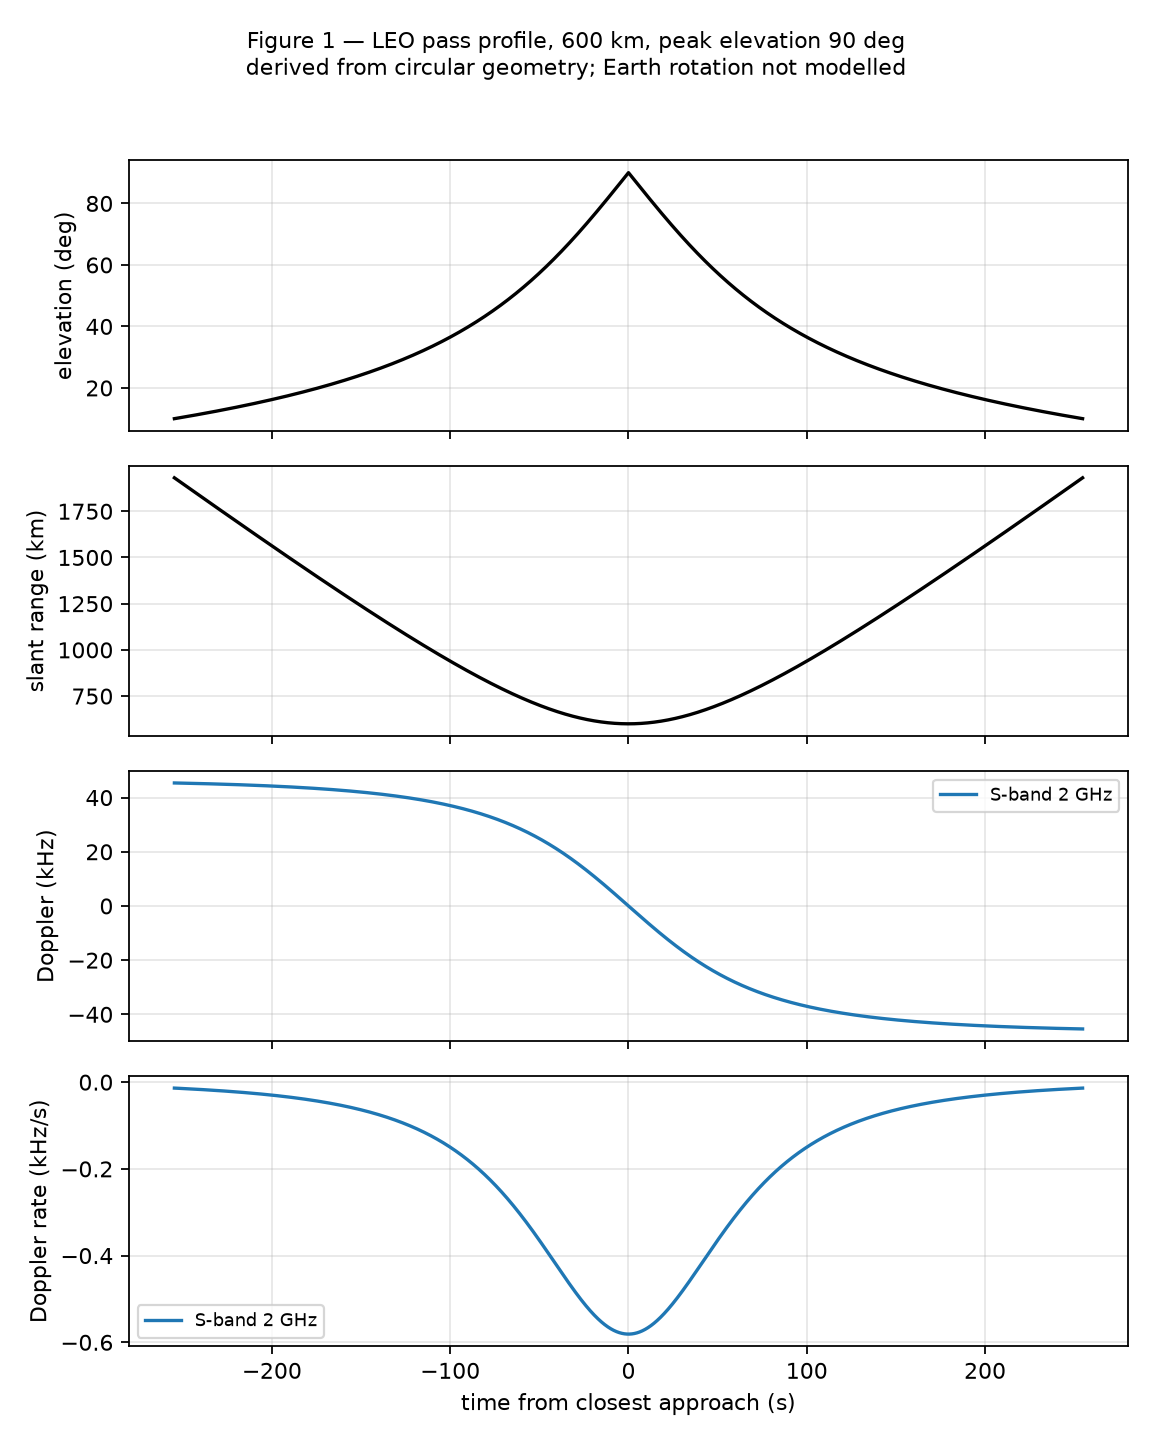
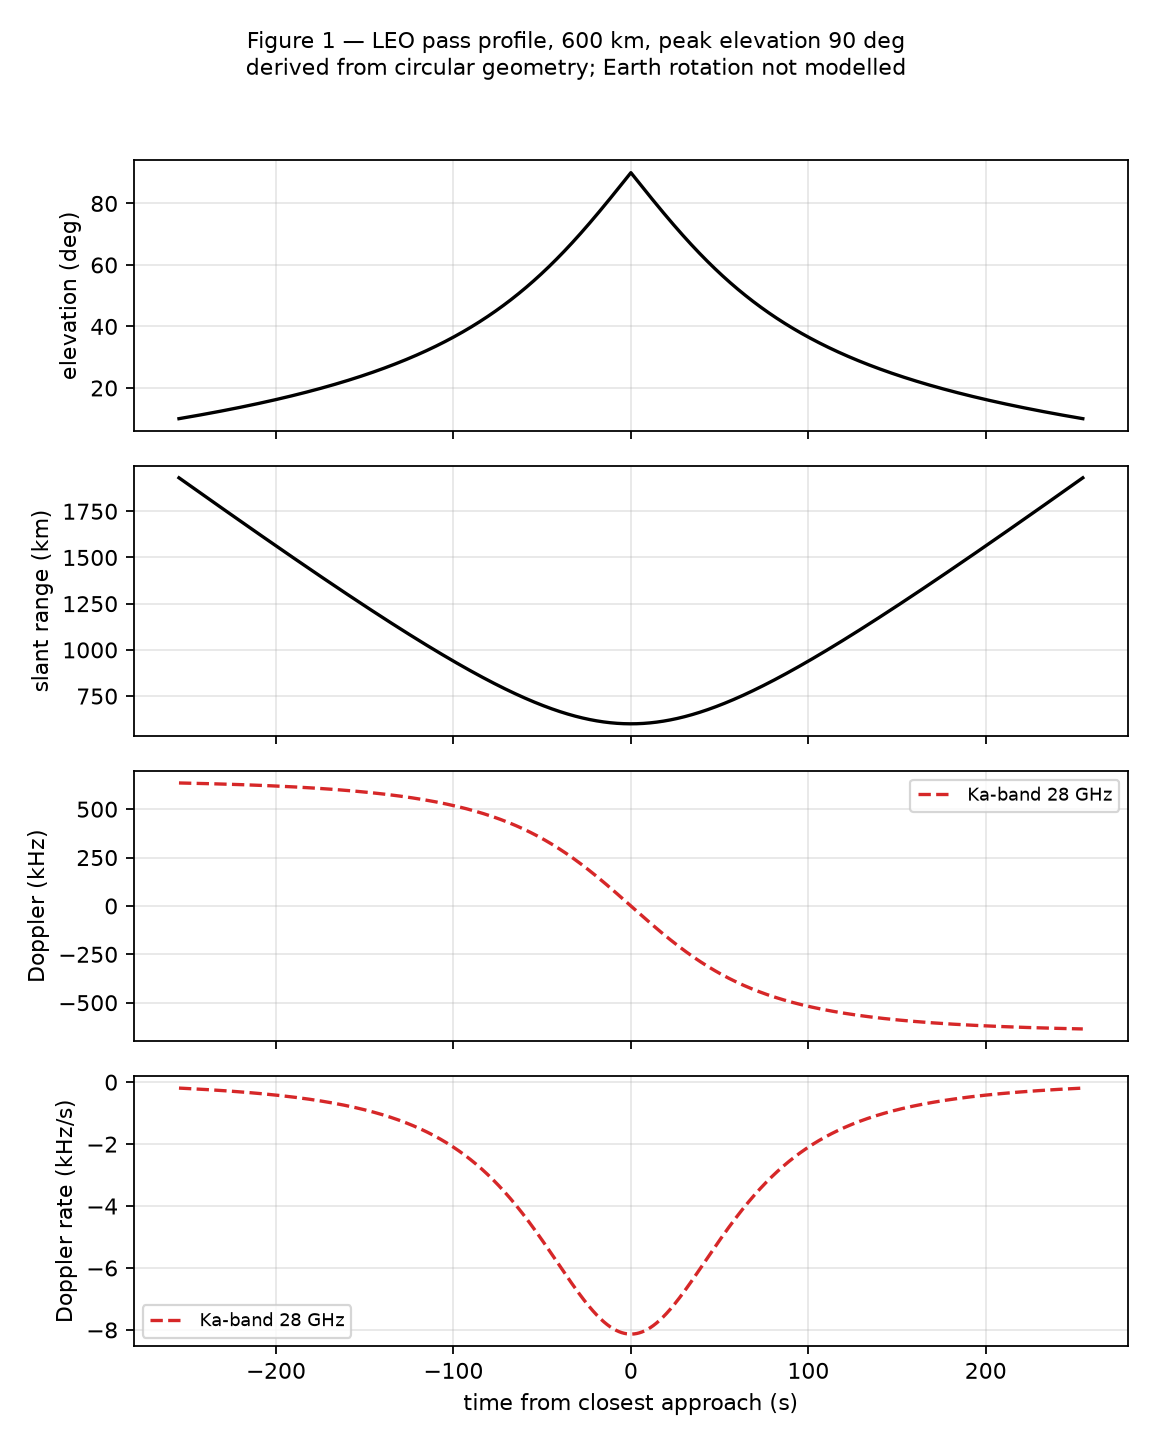
feat(orbit): read real ITU-R P.676 gas attenuation, add ticket queue
Zenith gaseous attenuation was an unread placeholder (Mistakes.md #1). Replaced
with ITU-R P.676-12 Annex 2 values, verified two ways: 0.0342 dB at 2 GHz
(placeholder was 2% high), 0.2354 dB at 28 GHz (placeholder was 27% high).
Dropped the now-false placeholder warning; the provenance flag survives,
renamed to gas_zenith_is_default. Figure 1 regenerated both bands, 44 tests
pass.

Also adds tasks/tickets.md, a flat status table over tasks/todo.md's day-by-day
plan, to track the open, blocked and deferred items as a pull queue.

diff --git a/orbit/channel.py b/orbit/channel.py
@@ -8,17 +8,15 @@ Provenance of each term, because a figure has to be able to say which is which:
 
 * Doppler, Doppler rate, delay      -- derived, from geometry and the speed of light.
 * Free-space path loss              -- derived, Friis.
-* Atmospheric gas absorption        -- cited, ITU-R P.676 zenith values, scaled by
-                                       cosec(elevation). Placeholder magnitudes are
-                                       flagged at runtime until read off the
-                                       recommendation on day 1.
+* Atmospheric gas absorption        -- cited, ITU-R P.676-12 Annex 2 zenith values
+                                       (standard atmosphere, oxygen + water vapour),
+                                       scaled by cosec(elevation).
 * Tropospheric scintillation        -- cited functional form (ITU-R P.618), with the
                                        amplitude left as a parameter.
 """
 
 from __future__ import annotations
 
-import warnings
 from dataclasses import dataclass
 
 import numpy as np
@@ -27,12 +25,19 @@ from .constants import C
 from .geometry import Pass
 
 
-# Zenith one-way gaseous attenuation, dB, clear sky, temperate. These are
-# order-of-magnitude placeholders so that the pipeline runs end to end on day 1.
-# They are NOT read off ITU-R P.676 yet; `channel_profile` warns while they are in
-# use, and `tasks/lessons.md` records that they must be replaced before any figure
-# containing them is published.
-_ZENITH_GAS_DB_PLACEHOLDER = {2.0e9: 0.035, 28.0e9: 0.30}
+# Zenith one-way gaseous attenuation, dB, clear sky, standard atmosphere
+# (P = 1013.25 hPa, T = 288.15 K, water vapour density 7.5 g/m^3 -- ITU-R P.835 mean
+# annual global). ITU-R P.676-12 (08/2019) Annex 2: A = h_o * gamma_o + h_w * gamma_w,
+# gamma_o/gamma_w from Annex 2 Sec 1 (line-by-line, Annex 1 Eq. 1), h_o/h_w from
+# Annex 2 Sec 2.2 Eq. 30 / Eq. 35b. Computed and cross-checked with the `itur`
+# package's `itu676` module and its `gaseous_attenuation_slant_path(mode='approx')`;
+# both agree exactly. Values, per band:
+#   2 GHz:  gamma_o=0.00672 dB/km, gamma_w=0.00020 dB/km, h_o=5.044 km, h_w=1.697 km
+#   28 GHz: gamma_o=0.01870 dB/km, gamma_w=0.08306 dB/km, h_o=4.860 km, h_w=1.740 km
+# P.676-13 (08/2022) replaced this closed-form method with a per-0.5-GHz coefficient
+# table not reproducible from the recommendation text alone; -12's Annex 2 method is
+# used here and cited as such rather than as -13.
+_ZENITH_GAS_DB = {2.0e9: 0.0342, 28.0e9: 0.2354}
 
 
 @dataclass
@@ -50,7 +55,7 @@ class ChannelProfile:
     total_loss_db: np.ndarray
     fc_hz: float
     source: str
-    gas_is_placeholder: bool
+    gas_zenith_is_default: bool  # True unless the caller passed its own zenith_gas_db
 
     @property
     def peak_doppler_hz(self) -> float:
@@ -105,14 +110,14 @@ def gaseous_loss_db(elevation_deg: np.ndarray, fc_hz: float,
     behind cosec(el) breaks and the true path is shorter than it predicts. This lab
     works at 10 degrees and above, so the approximation holds where it is used.
     """
-    is_placeholder = zenith_db is None
-    if is_placeholder:
-        zenith_db = _ZENITH_GAS_DB_PLACEHOLDER.get(fc_hz)
+    is_default = zenith_db is None
+    if is_default:
+        zenith_db = _ZENITH_GAS_DB.get(fc_hz)
         if zenith_db is None:
-            nearest = min(_ZENITH_GAS_DB_PLACEHOLDER, key=lambda f: abs(f - fc_hz))
-            zenith_db = _ZENITH_GAS_DB_PLACEHOLDER[nearest] * (fc_hz / nearest)
+            nearest = min(_ZENITH_GAS_DB, key=lambda f: abs(f - fc_hz))
+            zenith_db = _ZENITH_GAS_DB[nearest] * (fc_hz / nearest)
     el = np.radians(np.maximum(elevation_deg, 5.0))
-    return zenith_db / np.sin(el), is_placeholder
+    return zenith_db / np.sin(el), is_default
 
 
 def scintillation_std_db(elevation_deg: np.ndarray, fc_hz: float,
@@ -142,14 +147,7 @@ def channel_profile(sat_pass: Pass, fc_hz: float,
     fd_dot = np.gradient(fd, t)
 
     fspl = free_space_path_loss_db(d, fc_hz)
-    gas, placeholder = gaseous_loss_db(sat_pass.elevation_deg, fc_hz, zenith_gas_db)
-    if placeholder:
-        warnings.warn(
-            "gaseous attenuation is a placeholder magnitude, not read off ITU-R P.676. "
-            "Replace before publishing any figure that includes it "
-            "(tasks/lessons.md 2.1).",
-            stacklevel=2,
-        )
+    gas, gas_is_default = gaseous_loss_db(sat_pass.elevation_deg, fc_hz, zenith_gas_db)
 
     return ChannelProfile(
         t_s=t,
@@ -163,5 +161,5 @@ def channel_profile(sat_pass: Pass, fc_hz: float,
         total_loss_db=fspl + gas,
         fc_hz=fc_hz,
         source=sat_pass.source,
-        gas_is_placeholder=placeholder,
+        gas_zenith_is_default=gas_is_default,
     )

diff --git a/orbit/pass_profile.py b/orbit/pass_profile.py
@@ -70,7 +70,7 @@ def save(sat_pass, profiles) -> list[Path]:
             fc_hz=p.fc_hz,
             altitude_m=sat_pass.altitude_m,
             source=p.source,
-            gas_is_placeholder=p.gas_is_placeholder,
+            gas_zenith_is_default=p.gas_zenith_is_default,
         )
         written.append(out)
     return written

diff --git a/tasks/tickets.md b/tasks/tickets.md
@@ -1,0 +1,33 @@
+# Tickets
+
+Working queue derived from `tasks/todo.md`. That file stays the spec (what each day means,
+predictions, acceptance criteria); this file is status only. Update status here as work lands;
+edit the write-up in `todo.md`/`README.md`/`lessons.md` as usual.
+
+Status: OPEN (ready to pull) · BLOCKED (named dependency) · DEFERRED (decided cut, not a bug) · DONE
+
+| ID | Day | Title | Status | Blocked by | Ref |
+|---|---|---|---|---|---|
+| T00 | 0 | Reconcile stale checkboxes (`git init`/first commit, `make doctor`, srsRAN Rel-17 verify) | DONE | — | todo.md:57-66, lessons.md 7.1 |
+| T15 | 7 | Install CUDA toolkit in `ntn-lab` — `nvcc` absent, blocks the day-7 kernel | OPEN | — | found by T00, todo.md:59-62 |
+| T16 | 12 | Register the junctioned GGUF weights with Ollama — `ollama serve` answers but `/api/tags` lists zero models | OPEN | — | found by T00, todo.md:59-62 |
+| T01 | 1 | Replace placeholder gaseous attenuation with real ITU-R P.676 values | DONE | — | todo.md:97-98, Mistakes.md #1 |
+| T02 | 2 | Beam squint across the pass | DEFERRED | — | todo.md:127-128 (pointing error already dominates by an order of magnitude) |
+| T03 | 3 | Schedule a self-observation on SatNOGS Network, use own recording | OPEN | — | todo.md:136-137 (optional, free) |
+| T04 | 3 | Validation capture from a station that does NOT Doppler-correct before archiving | OPEN | — | lessons.md 5.7, README "still open" |
+| T05 | 4 | srsRAN Project gNB + Open5GS + srsUE over ZMQ inside `ntn-lab`, 10 MHz | OPEN | — | todo.md:245-246 |
+| T06 | 4 | `ranlink/shim/`: NCO shift + fractional-delay resampler + AWGN; verify standalone against a synthetic tone first | OPEN | — | todo.md:247-251 |
+| T07 | 5 | Delay-breaking sweep, 0-15 ms, SCS 15/30 kHz; predictions written first; repeat with `cell_specific_koffset` on/off (Rel-17 mechanism confirmed present, lessons.md 7.1) | BLOCKED | T05, T06 | todo.md:255-266 |
+| T08 | 6 | RTL: CORDIC NCO + 64-element phase-rotation datapath; cocotb/Verilator bit-exact vs golden model; Vivado xc7z020 synthesis-only | OPEN | — | todo.md:268-278 |
+| T09 | 7 | CUDA batched 4x4 Cholesky MMSE kernel, `sm_50`, vs cuSOLVER/NumPy, Nsight timing | OPEN | — | todo.md:280-289 |
+| T10 | 8 | RIC/E2 bring-up (FlexRIC or mini-RIC fallback) | BLOCKED | `oran-kpm-guard` (real E2 interface) | README "Days 8 to 11 remain deliberately blocked" |
+| T11 | 9 | RL xApp Gymnasium env + PPO (offline training) | BLOCKED | oran-kpm-guard | README, todo.md:303-313 |
+| T12 | 12 | rApp intent compiler (LangGraph + guardrails + schema validation), 60-intent benchmark | OPEN — not on the README's blocked list, independent of live E2 | — | todo.md:332-343 |
+| T13 | 13 | Three-arm runs + Figure 0 | BLOCKED | T07, T10, T11, T12 | todo.md:345-350 |
+| T14 | 14 | Ship: README diagram, paper, `make all`, CV bullets | BLOCKED | T13 | todo.md:352-357 |
+
+## Pull order right now
+
+Unblocked and independent of each other — pick any: **T03, T04, T08, T09, T12, T15, T16.**
+T05 → T06 → T07 is the critical link-and-silicon chain and the main line of "the next work" per
+README. T10/T11/T13/T14 stay parked until `oran-kpm-guard`'s E2 interface lands.

diff --git a/Mistakes.md b/Mistakes.md
@@ -29,7 +29,7 @@ Owned by the `critique-agent` (`.claude/agents/critique-agent.md`), but anyone m
 
 | # | Date | Where | Finding | Status |
 |---|---|---|---|---|
-| 1 | 2026-08-28 | `orbit/channel.py::gaseous_loss_db` | Gaseous attenuation magnitudes are placeholders, flagged at runtime. They must be read off ITU-R P.676 before any published figure contains them. No figure currently does, which is why this is open rather than urgent. | `open` |
+| 1 | 2026-08-28 | `orbit/channel.py::gaseous_loss_db` | Gaseous attenuation magnitudes are placeholders, flagged at runtime. They must be read off ITU-R P.676 before any published figure contains them. No figure currently does, which is why this is open rather than urgent. **Closed 2026-09-20.** Read off ITU-R P.676-12 Annex 2 (standard atmosphere; verified against the `itur` package, two independent code paths agree exactly): 0.0342 dB zenith at 2 GHz, 0.2354 dB at 28 GHz. The 2 GHz placeholder (0.035) was 2% high; the 28 GHz one (0.30) was 27% high. Figure 1 regenerated for both bands, 44 tests pass. | `closed` |
 | 2 | 2026-08-28 | `antenna/` | Beam squint across the pass is not modelled. Deferred deliberately: open-loop pointing error already dominates it by an order of magnitude (lessons.md 6.1), so it is not on the critical path to Figure 0. Revisit if a result starts depending on wideband behaviour. | `wontfix` |
 | 3 | 2026-09-05 | `satnogs/doppler_fit.py::track_carrier` | First day-3 run reported a residual RMS of 262 to 502 Hz and it was briefly read as a model error. It was the tracker: a 10 dB SNR gate let noise-bin picks through, and on two captures a second strong signal in the band was being tracked instead of the beacon. Fixed by raising the gate to 15 dB and adding `select_carrier`, whose discriminator is physical — the station corrected Doppler for this satellite and nothing else, so the beacon is the only line stationary in frequency. RMS fell to 14.4 and 39.1 Hz. | `promoted` (lessons.md 4.3, already stated; this is its second bill) |
 | 4 | 2026-09-05 | `satnogs/doppler_fit.py::decompose_residual` | The three-term fit had no linear-in-time term, so a beacon oscillator warming through the pass came back as a **+5129 ppm Doppler-scale error** on KKS-1 — half a percent of disagreement between two SGP4 implementations on the same TLE, which would have been a serious and wrong claim, and it would have been believed because it was small enough to look plausible. Caught by fitting a plain linear drift instead and finding it explained the same residual better (6.7 Hz unexplained against 13.3 Hz). Fixed by fitting both; the scale then collapses to -680 ppm. | `promoted` (lessons.md 5.5) |

diff --git a/tasks/todo.md b/tasks/todo.md
@@ -54,12 +54,19 @@ functional split has to change for NTN, and it is measured rather than asserted.
 - [x] Junction the Ollama binary and GGUF weights from the first lab rather than copying ~2 GB
 - [x] Write `Makefile`, `requirements.txt`, `.gitignore`
 - [x] Author the three project skills: `ntn-run`, `rtl-hdl`, `paper-figures`
-- [ ] `git init` and first commit
-- [ ] `make doctor` passes: distro up, venv imports numpy/scipy/skyfield, nvcc present, Ollama answers
-- [ ] **Verify before writing anything about it:** does srsRAN Project implement any Rel-17 NTN
+- [x] `git init` and first commit — 7 commits on `main`, repo published to GitHub
+- [ ] `make doctor` passes: distro up, venv imports numpy/scipy/skyfield, nvcc present, Ollama
+      answers. **Checked 2026-09-20, does not fully pass.** Distro up, numpy/scipy/skyfield/sgp4
+      import; `nvcc` is absent from `ntn-lab` (no CUDA toolkit installed — blocks day 7); Ollama
+      answers once `ollama serve` is started by hand but lists zero models, so the junctioned
+      GGUF weights are not registered with it (blocks day 12). Neither is fixed here — see T15/T16.
+- [x] **Verify before writing anything about it:** does srsRAN Project implement any Rel-17 NTN
       feature (K_offset, ephemeris-assisted common TA, cell-specific timing offset)? Does
       OpenAirInterface? Record the answer with a citation in `tasks/lessons.md`. The plan
       assumes srsRAN does not, and treats that as the experiment rather than a defect.
+      **Done 2026-08-28** — srsRAN Project does (`lessons.md` 7.1, cited config + commit).
+      OpenAirInterface was not checked; not needed, since the day-5 experiment no longer depends
+      on the absence.
 
 ---
 
@@ -94,8 +101,8 @@ the day-5 prediction.
 **Staleness floor:** measurement 6.44 ms old on arrival, action 6.44 ms late on landing, total
 12.89 ms = **1.29x the fastest Near-RT loop period**. This is the NTN-specific result.
 
-- [ ] Still open: gaseous attenuation magnitudes are placeholders, flagged at runtime, to be
-      read off ITU-R P.676 before any figure containing them is published.
+- [x] Gaseous attenuation read off ITU-R P.676-12 Annex 2, 2026-09-20: 0.0342 dB zenith at
+      2 GHz, 0.2354 dB at 28 GHz (`orbit/channel.py`, `Mistakes.md` #1, `tasks/tickets.md` T01).
 
 ### Day 2 — array, beamforming, interference
 
